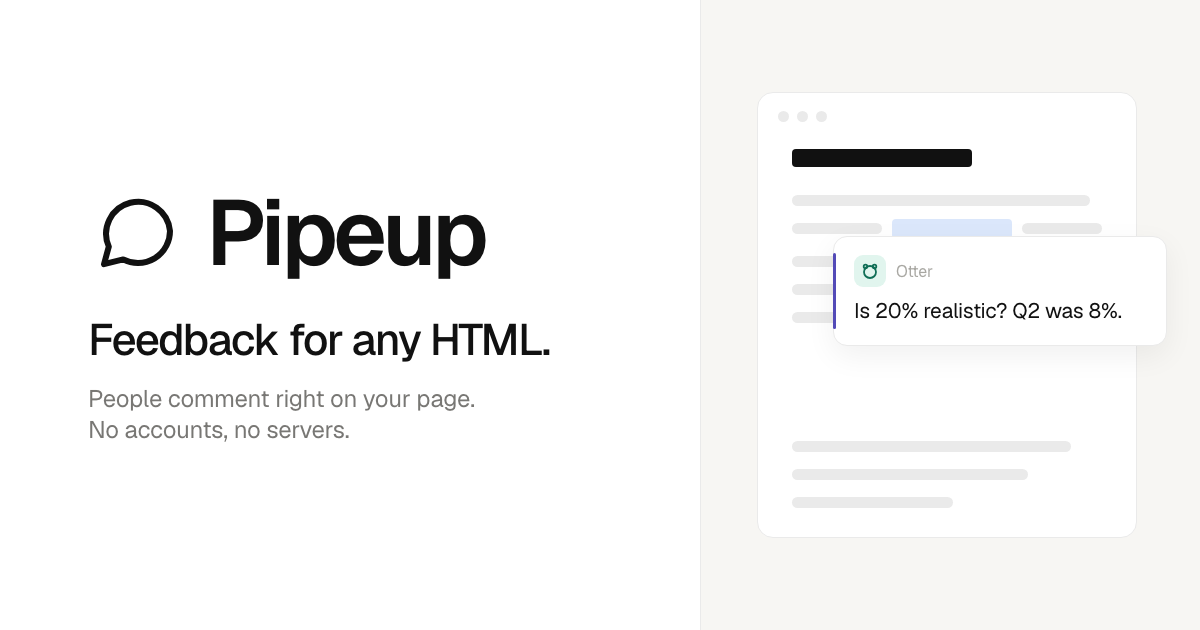
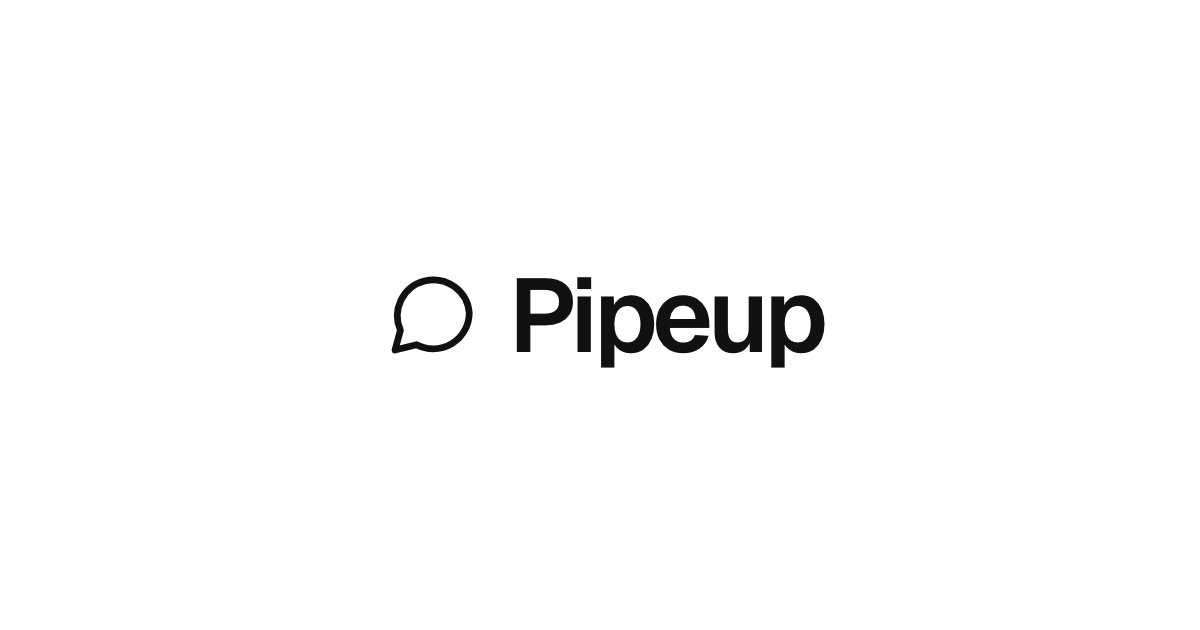
Site update for v0.4.0

diff --git a/apps/site/og/og.html b/apps/site/og/og.html
@@ -1,5 +1,7 @@
 <!doctype html>
 <!-- The link-preview image (og.png, 1200×630): rendered by og/render.mjs, never served as a page.
+     Only the mark and the name, centred inside the middle 630×630 square, so a square crop (Slack's
+     thumbnail) never cuts it.
      Light only, in the site's colours and font. Edit this, then run `node apps/site/og/render.mjs`. -->
 <html lang="en">
   <head>
@@ -7,60 +9,17 @@
     <title>Pipeup link preview</title>
     <style>
       @font-face { font-family: "Geist"; src: url("../fonts/geist.woff2") format("woff2"); font-weight: 400 600; }
-      :root { --ink: #2f3437; --strong: #111111; --muted: #787774; --faint: #a8a7a2; --line: #eaeaea; --bone: #f7f6f3; --paper: #ffffff; --violet: #534ab7; }
-      * { box-sizing: border-box; }
-      html, body { margin: 0; width: 1200px; height: 630px; overflow: hidden; background: var(--paper); }
-      body { font-family: "Geist", sans-serif; color: var(--ink); -webkit-font-smoothing: antialiased; position: relative; }
-      .words { position: absolute; left: 88px; top: 0; bottom: 0; width: 560px; display: flex; flex-direction: column; justify-content: center; }
-      .mark { display: flex; align-items: center; gap: 22px; }
+      html, body { margin: 0; width: 1200px; height: 630px; overflow: hidden; background: #ffffff; }
+      body { display: grid; place-items: center; font-family: "Geist", sans-serif; -webkit-font-smoothing: antialiased; }
+      .mark { display: flex; align-items: center; gap: 24px; }
       .mark svg { display: block; }
-      .name { font-size: 92px; font-weight: 600; letter-spacing: -0.05em; color: var(--strong); line-height: 1; }
-      .line { margin: 34px 0 0; font-size: 44px; font-weight: 500; letter-spacing: -0.035em; line-height: 1.12; color: var(--strong); }
-      .sub { margin: 18px 0 0; font-size: 24px; color: var(--muted); letter-spacing: -0.01em; }
-      /* A small page with a comment on it, like the site's showcase. */
-      .stage { position: absolute; right: 0; top: 0; bottom: 0; width: 500px; background: var(--bone); border-left: 1px solid var(--line); }
-      .win { position: absolute; left: 56px; top: 92px; width: 380px; height: 446px; background: var(--paper); border: 1px solid var(--line); border-radius: 16px; padding: 56px 34px 0; }
-      .dots { position: absolute; top: 18px; left: 20px; display: flex; gap: 8px; }
-      .dots i { width: 11px; height: 11px; border-radius: 50%; background: var(--line); }
-      .ttl { height: 18px; width: 58%; background: var(--strong); border-radius: 4px; margin-bottom: 28px; }
-      .ln { height: 11px; border-radius: 6px; background: var(--line); margin: 0 0 17px; }
-      .hl { display: flex; gap: 10px; margin: 0 0 17px; }
-      .hl i { height: 11px; border-radius: 6px; background: var(--line); }
-      .hl b { height: 20px; margin-top: -4.5px; width: 120px; border-radius: 4px; background: #dbe7fb; }
-      .cbox { position: absolute; left: 132px; top: 236px; width: 334px; background: var(--paper); border: 1px solid var(--line); border-radius: 14px;
-        padding: 18px 20px 20px; box-shadow: 0 10px 30px rgba(0, 0, 0, 0.06); }
-      .cbox::before { content: ""; position: absolute; left: -1px; top: 16px; bottom: 16px; width: 3px; border-radius: 2px; background: var(--violet); }
-      .who { display: flex; align-items: center; gap: 10px; font-size: 16px; color: var(--faint); margin-bottom: 10px; }
-      .av { width: 32px; height: 32px; border-radius: 9px; background: #e1f5ee; display: grid; place-items: center; }
-      .say { font-size: 21px; line-height: 1.35; color: var(--strong); letter-spacing: -0.01em; }
+      .name { font-size: 104px; font-weight: 600; letter-spacing: -0.05em; color: #111111; line-height: 1; }
     </style>
   </head>
   <body>
-    <div class="words">
-      <div class="mark">
-        <svg width="96" height="96" viewBox="0 0 24 24" fill="none" stroke="#111" stroke-width="1.5" stroke-linejoin="round" aria-hidden="true"><path d="M20.5 11.5a8 8 0 0 1-11.7 7.1L4 19.8l1.2-4.4A8 8 0 1 1 20.5 11.5z" /></svg>
-        <span class="name">Pipeup</span>
-      </div>
-      <p class="line">Feedback for any HTML.</p>
-      <p class="sub">People comment right on your page.<br />No accounts, no servers.</p>
-    </div>
-    <div class="stage" aria-hidden="true">
-      <div class="win">
-        <div class="dots"><i></i><i></i><i></i></div>
-        <div class="ttl"></div>
-        <div class="ln" style="width: 96%"></div>
-        <div class="hl"><i style="width: 90px"></i><b></b><i style="flex: 1"></i></div>
-        <div class="ln" style="width: 84%"></div>
-        <div class="ln" style="width: 92%"></div>
-        <div class="ln" style="width: 70%"></div>
-        <div class="ln" style="width: 90%; margin-top: 118px"></div>
-        <div class="ln" style="width: 76%"></div>
-        <div class="ln" style="width: 52%"></div>
-      </div>
-      <div class="cbox">
-        <div class="who"><span class="av"><svg width="24" height="24" viewBox="0 0 24 24" fill="none" stroke="#0F6E56" stroke-width="1.8" stroke-linecap="round"><circle cx="12" cy="13" r="6" /><circle cx="7.5" cy="7.5" r="1.8" /><circle cx="16.5" cy="7.5" r="1.8" /></svg></span>Otter</div>
-        <div class="say">Is 20% realistic? Q2 was 8%.</div>
-      </div>
+    <div class="mark">
+      <svg width="108" height="108" viewBox="0 0 24 24" fill="none" stroke="#111" stroke-width="1.5" stroke-linejoin="round" aria-hidden="true"><path d="M20.5 11.5a8 8 0 0 1-11.7 7.1L4 19.8l1.2-4.4A8 8 0 1 1 20.5 11.5z" /></svg>
+      <span class="name">Pipeup</span>
     </div>
   </body>
 </html>

diff --git a/apps/site/try/slides.html b/apps/site/try/slides.html
@@ -16,12 +16,12 @@
     <meta property="og:image" content="https://pipeup-ai.github.io/pipeup/og.png" />
     <meta property="og:image:width" content="1200" />
     <meta property="og:image:height" content="630" />
-    <meta property="og:image:alt" content="The Pipeup comment-bubble mark and the words: Pipeup, Feedback for any HTML." />
+    <meta property="og:image:alt" content="The Pipeup comment-bubble mark and the word Pipeup." />
     <meta name="twitter:card" content="summary_large_image" />
     <meta name="twitter:title" content="Reviewing an HTML file with Pipeup" />
     <meta name="twitter:description" content="A deck on reviewing an HTML file with Pipeup, with comments right on each slide." />
     <meta name="twitter:image" content="https://pipeup-ai.github.io/pipeup/og.png" />
-    <meta name="twitter:image:alt" content="The Pipeup comment-bubble mark and the words: Pipeup, Feedback for any HTML." />
+    <meta name="twitter:image:alt" content="The Pipeup comment-bubble mark and the word Pipeup." />
     <style>
       @font-face { font-family: "Geist"; src: url("../fonts/geist.woff2") format("woff2"); font-weight: 400 600; font-display: swap; }
       @font-face { font-family: "Geist Mono"; src: url("../fonts/geist-mono.woff2") format("woff2"); font-weight: 400; font-display: swap; }

diff --git a/apps/site/try/website.html b/apps/site/try/website.html
@@ -14,12 +14,12 @@
     <meta property="og:image" content="https://pipeup-ai.github.io/pipeup/og.png" />
     <meta property="og:image:width" content="1200" />
     <meta property="og:image:height" content="630" />
-    <meta property="og:image:alt" content="The Pipeup comment-bubble mark and the words: Pipeup, Feedback for any HTML." />
+    <meta property="og:image:alt" content="The Pipeup comment-bubble mark and the word Pipeup." />
     <meta name="twitter:card" content="summary_large_image" />
     <meta name="twitter:title" content="Try Pipeup on a website" />
     <meta name="twitter:description" content="A product landing page running Pipeup: comment on anything, from headlines to buttons." />
     <meta name="twitter:image" content="https://pipeup-ai.github.io/pipeup/og.png" />
-    <meta name="twitter:image:alt" content="The Pipeup comment-bubble mark and the words: Pipeup, Feedback for any HTML." />
+    <meta name="twitter:image:alt" content="The Pipeup comment-bubble mark and the word Pipeup." />
     <style>
       @font-face { font-family: "Geist"; src: url("../fonts/geist.woff2") format("woff2"); font-weight: 400 600; font-display: swap; }
       :root { --red: #ff4a1c; --cream: #fff3dc; --lime: #d4ff3a; --black: #111; }

diff --git a/apps/site/index.html b/apps/site/index.html
@@ -19,12 +19,12 @@
     <meta property="og:image" content="https://pipeup-ai.github.io/pipeup/og.png" />
     <meta property="og:image:width" content="1200" />
     <meta property="og:image:height" content="630" />
-    <meta property="og:image:alt" content="The Pipeup comment-bubble mark and the words: Pipeup, Feedback for any HTML." />
+    <meta property="og:image:alt" content="The Pipeup comment-bubble mark and the word Pipeup." />
     <meta name="twitter:card" content="summary_large_image" />
     <meta name="twitter:title" content="Pipeup: feedback for any HTML" />
     <meta name="twitter:description" content="People comment right on your page: documents, decks or whole sites. No accounts, no servers." />
     <meta name="twitter:image" content="https://pipeup-ai.github.io/pipeup/og.png" />
-    <meta name="twitter:image:alt" content="The Pipeup comment-bubble mark and the words: Pipeup, Feedback for any HTML." />
+    <meta name="twitter:image:alt" content="The Pipeup comment-bubble mark and the word Pipeup." />
     <link rel="canonical" href="https://pipeup-ai.github.io/pipeup/" />
     <script type="application/ld+json">
       {

diff --git a/apps/site/try/document.html b/apps/site/try/document.html
@@ -16,12 +16,12 @@
     <meta property="og:image" content="https://pipeup-ai.github.io/pipeup/og.png" />
     <meta property="og:image:width" content="1200" />
     <meta property="og:image:height" content="630" />
-    <meta property="og:image:alt" content="The Pipeup comment-bubble mark and the words: Pipeup, Feedback for any HTML." />
+    <meta property="og:image:alt" content="The Pipeup comment-bubble mark and the word Pipeup." />
     <meta name="twitter:card" content="summary_large_image" />
     <meta name="twitter:title" content="How Pipeup works" />
     <meta name="twitter:description" content="A short guide to how Pipeup works, as a document you can comment on." />
     <meta name="twitter:image" content="https://pipeup-ai.github.io/pipeup/og.png" />
-    <meta name="twitter:image:alt" content="The Pipeup comment-bubble mark and the words: Pipeup, Feedback for any HTML." />
+    <meta name="twitter:image:alt" content="The Pipeup comment-bubble mark and the word Pipeup." />
     <style>
       * { box-sizing: border-box; }
       body {

diff --git a/docs/WEBSITE_SPEC.md b/docs/WEBSITE_SPEC.md
@@ -133,3 +133,4 @@ site's light look), a title and a description. The pre-release copy's previews u
 - 2026-10-07 — The first screen says plainly there is nothing to install and that comments stay in the reviewer's browser until they copy and send them; the footer adds "Stays on your device"; the Markdown page and llms.txt say the same.
 - 2026-10-07 — A fourth showcase scene, Keyboard: no pointer, the block cursor moves through a page while each key and its action show as on-screen captions.
 - 2026-10-07 — The privacy point lives only in the footer: "Stays on your device" with a lock, and a short note on hover, focus or tap ("Private by design…"); the first screen stays as it was.
+- 2026-10-07 — The link-preview image is only the mark and the name, centred so a square thumbnail crop keeps all of it.
